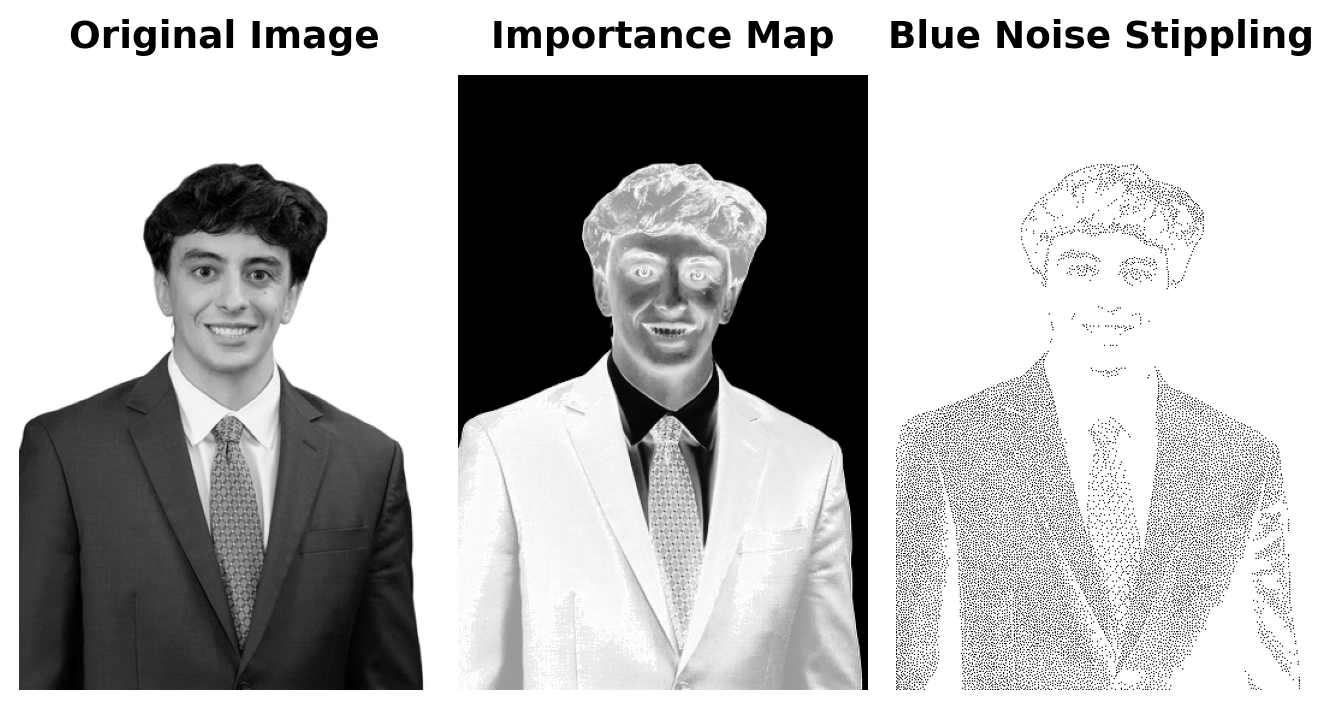
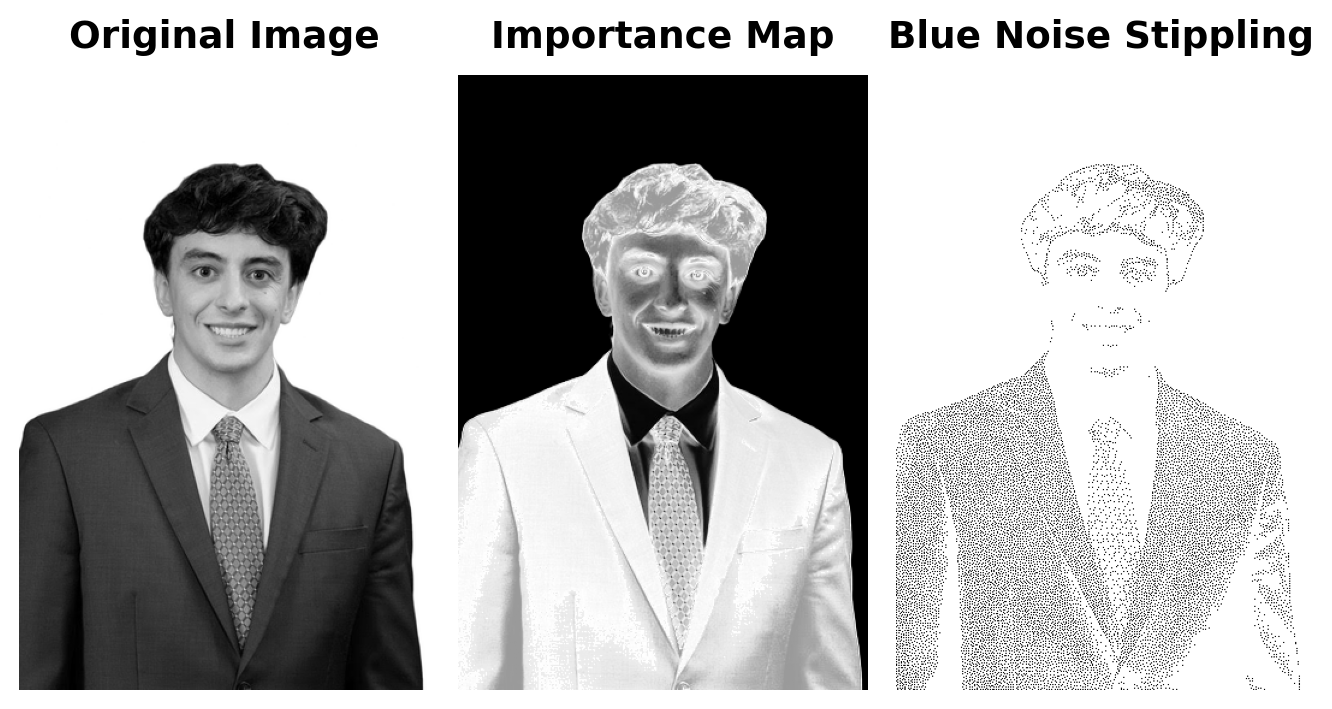
more updates

diff --git a/index.html b/index.html
@@ -80,16 +80,7 @@ ul.task-list li input[type="checkbox"] {
 </section>
 <section id="how-blue-noise-stippling-works" class="level2">
 <h2 class="anchored" data-anchor-id="how-blue-noise-stippling-works">How Blue Noise Stippling Works</h2>
-<p><em>[Add your explanation of how blue noise stippling works here. Consider discussing:</em></p>
-<ul>
-<li><em>The concept of blue noise and its spectral properties</em></li>
-<li><em>How the void-and-cluster algorithm operates</em></li>
-<li><em>The role of importance mapping in content-aware stippling</em></li>
-<li><em>The toroidal Gaussian kernel and its role in spatial distribution</em></li>
-<li><em>The iterative point selection process</em></li>
-<li><em>How the algorithm balances visual accuracy with spatial uniformity</em></li>
-</ul>
-<p><em>]</em></p>
+<p>Blue noise stippling is a method of drawing an image using small dots that are spread out evenly but still show light and dark areas correctly. The darker parts of the picture have more dots placed closer together, while the lighter parts have fewer dots that are farther apart. What makes it “blue noise” is that the dots don’t form visible patterns or clumps. Instead, they are randomly placed but still look balanced. To make this happen, a computer usually starts by placing dots at random and then moves them around until the spacing looks smooth and even. The result is a picture that appears natural when viewed from a distance. The shading is created from the difference in how the dots are arranged.</p>
 </section>
 <section id="loading-the-original-image" class="level2">
 <h2 class="anchored" data-anchor-id="loading-the-original-image">Loading the Original Image</h2>
@@ -134,24 +125,10 @@ Image size: 752x501 pixels</code></pre>
 <section id="image-preprocessing" class="level2">
 <h2 class="anchored" data-anchor-id="image-preprocessing">Image Preprocessing</h2>
 <p>Before generating the stippling pattern, the image is resized if necessary to optimize processing speed, and the importance map is computed.</p>
-<div id="prep-image" class="cell" data-message="false" data-execution_count="4">
-<div class="cell-output cell-output-stdout">
-<pre><code>Resized image from (752, 501) to (512, 341) for processing
-Final image shape: (512, 341) (should be 2D for grayscale)
-Importance map computed</code></pre>
-</div>
-</div>
 </section>
 <section id="generating-the-stippled-image" class="level2">
 <h2 class="anchored" data-anchor-id="generating-the-stippled-image">Generating the Stippled Image</h2>
 <p>The stippling algorithm is applied to create the blue noise stippling pattern using the preprocessed image and importance map.</p>
-<div id="generate-stipple" class="cell" data-message="false" data-execution_count="5">
-<div class="cell-output cell-output-stdout">
-<pre><code>Generating blue noise stippling pattern...
-Generated 13967 stipple points
-Stipple pattern shape: (512, 341)</code></pre>
-</div>
-</div>
 </section>
 <section id="results" class="level2">
 <h2 class="anchored" data-anchor-id="results">Results</h2>
@@ -170,30 +147,6 @@ Stipple pattern shape: (512, 341)</code></pre>
 <section id="progressive-stippling-animation" class="level2">
 <h2 class="anchored" data-anchor-id="progressive-stippling-animation">Progressive Stippling Animation</h2>
 <p>A progressive animation demonstrates how the stippled image develops as points are added sequentially. Frames are generated at increments of 100 points to show the evolution of the pattern.</p>
-<div id="progressive-stippling" class="cell" data-message="false" data-execution_count="7">
-<div class="cell-output cell-output-stdout">
-<pre><code>Using existing stippling with 13967 points
-Image shape: (512, 341)
-Generated 141 frames
-Point counts: [1, 100, 200, 300, 400, 500, 600, 700, 800, 900, 1000, 1100, 1200, 1300, 1400, 1500, 1600, 1700, 1800, 1900, 2000, 2100, 2200, 2300, 2400, 2500, 2600, 2700, 2800, 2900, 3000, 3100, 3200, 3300, 3400, 3500, 3600, 3700, 3800, 3900, 4000, 4100, 4200, 4300, 4400, 4500, 4600, 4700, 4800, 4900, 5000, 5100, 5200, 5300, 5400, 5500, 5600, 5700, 5800, 5900, 6000, 6100, 6200, 6300, 6400, 6500, 6600, 6700, 6800, 6900, 7000, 7100, 7200, 7300, 7400, 7500, 7600, 7700, 7800, 7900, 8000, 8100, 8200, 8300, 8400, 8500, 8600, 8700, 8800, 8900, 9000, 9100, 9200, 9300, 9400, 9500, 9600, 9700, 9800, 9900, 10000, 10100, 10200, 10300, 10400, 10500, 10600, 10700, 10800, 10900, 11000, 11100, 11200, 11300, 11400, 11500, 11600, 11700, 11800, 11900, 12000, 12100, 12200, 12300, 12400, 12500, 12600, 12700, 12800, 12900, 13000, 13100, 13200, 13300, 13400, 13500, 13600, 13700, 13800, 13900, 13967]</code></pre>
-</div>
-</div>
-<p>The GIF animation is created from the progressive frames:</p>
-<div id="cell-create-gif" class="cell" data-message="false" data-execution_count="8">
-<div class="cell-output cell-output-stdout">
-<pre><code>Creating GIF animation...
-GIF saved to: progressive_stippling.gif
-Total frames: 141
-Point counts: [1, 100, 200, 300, 400, 500, 600, 700, 800, 900, 1000, 1100, 1200, 1300, 1400, 1500, 1600, 1700, 1800, 1900, 2000, 2100, 2200, 2300, 2400, 2500, 2600, 2700, 2800, 2900, 3000, 3100, 3200, 3300, 3400, 3500, 3600, 3700, 3800, 3900, 4000, 4100, 4200, 4300, 4400, 4500, 4600, 4700, 4800, 4900, 5000, 5100, 5200, 5300, 5400, 5500, 5600, 5700, 5800, 5900, 6000, 6100, 6200, 6300, 6400, 6500, 6600, 6700, 6800, 6900, 7000, 7100, 7200, 7300, 7400, 7500, 7600, 7700, 7800, 7900, 8000, 8100, 8200, 8300, 8400, 8500, 8600, 8700, 8800, 8900, 9000, 9100, 9200, 9300, 9400, 9500, 9600, 9700, 9800, 9900, 10000, 10100, 10200, 10300, 10400, 10500, 10600, 10700, 10800, 10900, 11000, 11100, 11200, 11300, 11400, 11500, 11600, 11700, 11800, 11900, 12000, 12100, 12200, 12300, 12400, 12500, 12600, 12700, 12800, 12900, 13000, 13100, 13200, 13300, 13400, 13500, 13600, 13700, 13800, 13900, 13967]</code></pre>
-</div>
-<div class="cell-output cell-output-display">
-<div>
-<figure class="figure">
-<p><img src="index_files/figure-html/create-gif-output-2.png" id="create-gif" width="397" height="417" class="figure-img"></p>
-</figure>
-</div>
-</div>
-</div>
 <p>The following animation shows the progressive build-up of the stippling pattern for the processed image:</p>
 <div class="quarto-figure quarto-figure-center">
 <figure class="figure">
